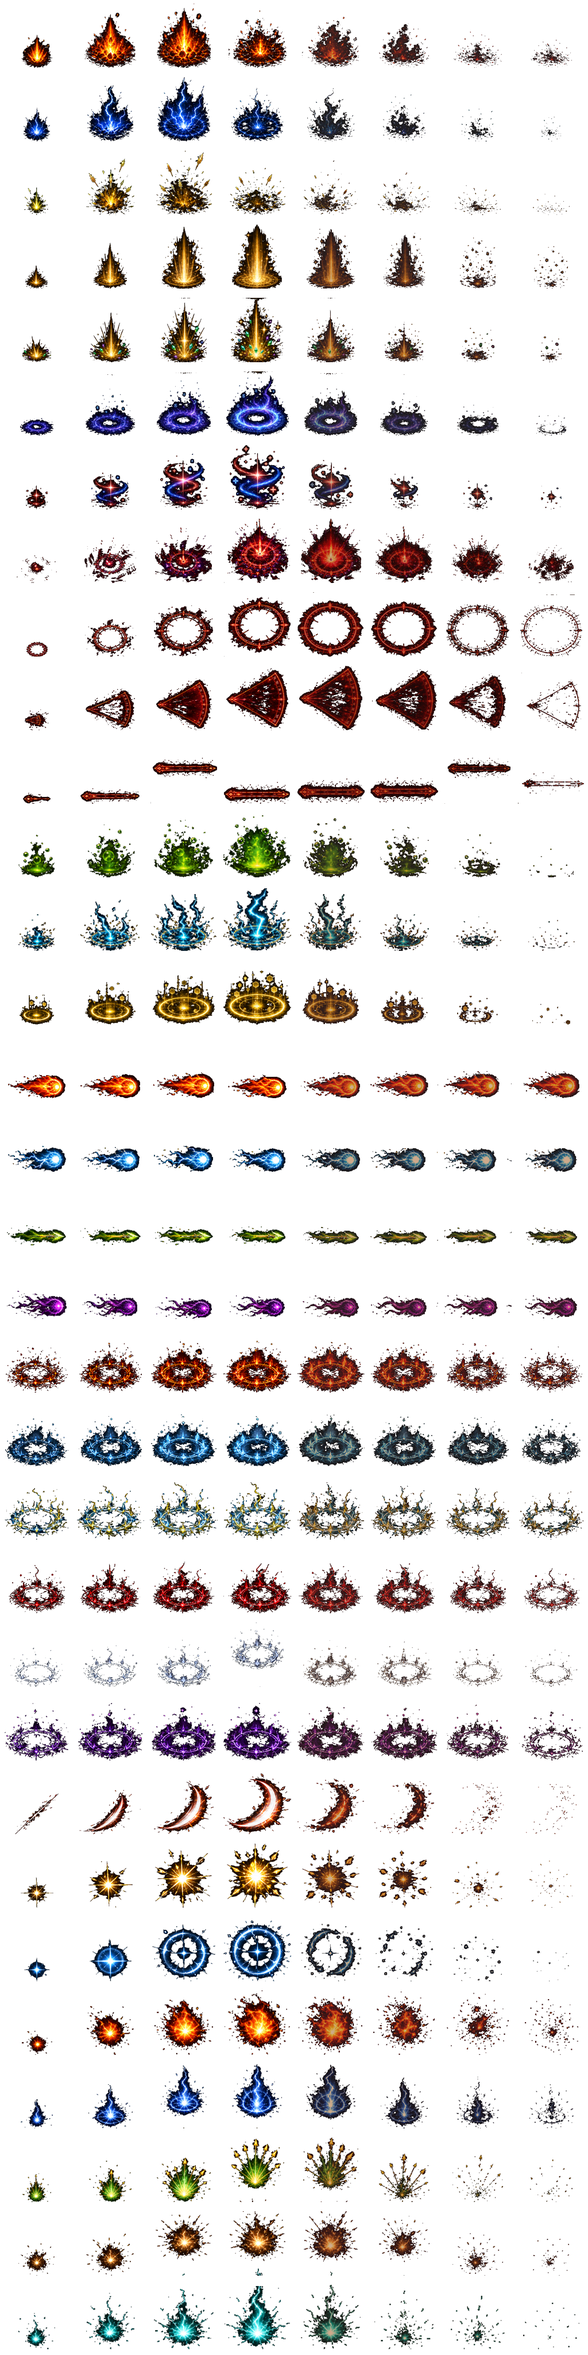
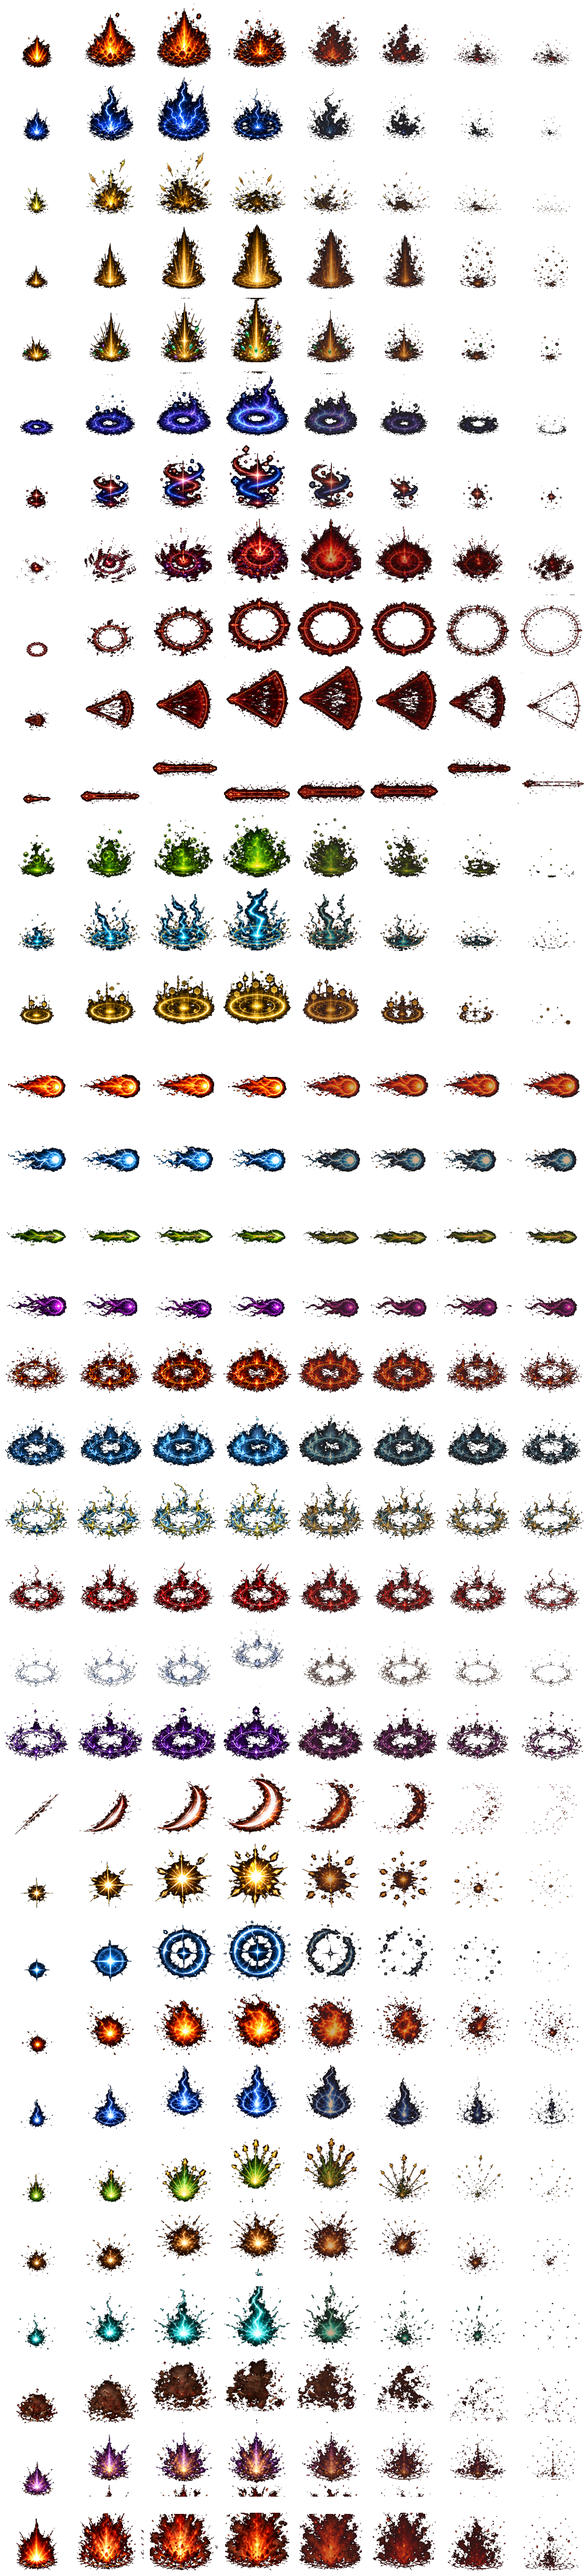
Add kill feedback VFX

diff --git a/vfx-manifest.js b/vfx-manifest.js
@@ -1,5 +1,5 @@
 window.VFX_SPRITE_MANIFEST = {
-    sheet: 'vfx_sheet.png?v=202605051915',
+    sheet: 'vfx_sheet.png?v=202605051925',
     effects: {
         fireballImpact: {
             row: 0,
@@ -351,6 +351,39 @@ window.VFX_SPRITE_MANIFEST = {
             renderSize: 54,
             pivotX: 64,
             pivotY: 76,
+            blend: 'lighter'
+        },
+        monsterDeathDust: {
+            row: 32,
+            frameWidth: 128,
+            frameHeight: 128,
+            frameCount: 8,
+            fps: 20,
+            renderSize: 70,
+            pivotX: 64,
+            pivotY: 92,
+            blend: 'lighter'
+        },
+        eliteDeathBurst: {
+            row: 33,
+            frameWidth: 128,
+            frameHeight: 128,
+            frameCount: 8,
+            fps: 22,
+            renderSize: 92,
+            pivotX: 64,
+            pivotY: 96,
+            blend: 'lighter'
+        },
+        bossDeathBurst: {
+            row: 34,
+            frameWidth: 128,
+            frameHeight: 128,
+            frameCount: 8,
+            fps: 20,
+            renderSize: 130,
+            pivotX: 64,
+            pivotY: 104,
             blend: 'lighter'
         }
     }

diff --git a/game.js b/game.js
@@ -1097,6 +1097,12 @@ const CAST_SOURCE_VFX = {
     enemyLightning: 'enemyLightningMuzzle'
 };
 
+const KILL_FEEDBACK_VFX = {
+    normal: 'monsterDeathDust',
+    elite: 'eliteDeathBurst',
+    boss: 'bossDeathBurst'
+};
+
 const ELITE_AFFIX_AURA_VFX = {
     fire_enchanted: 'affixFireAura',
     cold_enchanted: 'affixColdAura',
@@ -1266,6 +1272,12 @@ function spawnCastSourceVfx(effectId, x, y, angle = 0, scale = 1, forward = 14, 
         scale,
         angle
     );
+}
+
+function spawnEnemyDeathVfx(enemy) {
+    const effectId = enemy.isBoss ? KILL_FEEDBACK_VFX.boss : (enemy.isElite ? KILL_FEEDBACK_VFX.elite : KILL_FEEDBACK_VFX.normal);
+    const scale = enemy.isBoss ? 1.18 : (enemy.isElite ? 0.96 : 0.78);
+    spawnVfxEffect(effectId, enemy.x, enemy.y + 4, scale, Math.random() * Math.PI * 2);
 }
 
 function isAffixCompatibleWithEnemy(affix, enemy) {
@@ -9846,6 +9858,7 @@ function takeDamage(e, dmg, isSkillDamage = false) {
         // 怪物死亡 - 强烈的果汁感
         e.dead = true;
         Juice.hit(e, false, true); // 击杀反馈
+        spawnEnemyDeathVfx(e);
 
         // 创建地面血迹
         createBloodSplat(e.x, e.y, e.radius);

diff --git a/index.html b/index.html
@@ -765,8 +765,8 @@
     <script src="enemy-system.js?v=202605051730"></script>
     <script src="abyss-system.js?v=202601061400"></script>
     <script src="auto-battle.js?v=202601101200"></script>
-    <script src="vfx-manifest.js?v=202605051915"></script>
-    <script src="game.js?v=202605051915"></script>
+    <script src="vfx-manifest.js?v=202605051925"></script>
+    <script src="game.js?v=202605051925"></script>
     <script src="pocketbase.umd.js"></script>
     <script src="online.js?v=202605010330"></script>
     <script src="market.js?v=202605011345"></script>

diff --git a/sprite-vfx-viewer.html b/sprite-vfx-viewer.html
@@ -4,7 +4,7 @@
     <meta charset="utf-8">
     <meta name="viewport" content="width=device-width, initial-scale=1">
     <title>VFX 图集预览</title>
-    <script src="vfx-manifest.js?v=202605051915"></script>
+    <script src="vfx-manifest.js?v=202605051925"></script>
     <style>
         :root {
             color-scheme: dark;

diff --git a/docs/sprite-pipeline-adoption.md b/docs/sprite-pipeline-adoption.md
@@ -74,6 +74,10 @@ Boss 施法蓄力、圆形危险区、扇形危险区和直线危险区作为第
 
 飞行弹道和命中爆点完成后，发射源头不能继续只靠音效或少量粒子。玩家火球、雷电和多重射击在成功扣蓝并进入施法动作后播放对应起手 VFX；骷髅弓箭手、闪电幽魂和精英散射在真正创建 projectile 前播放小型发射闪光。接入点必须在成功分支里，不能在法力不足、冷却、无目标或超出射程时误播。
 
+## 第十条完整闭环：击杀反馈包
+
+击杀反馈接在统一的 `e.hp <= 0` 死亡分支里，只在怪物已经判定死亡后播放，不提前影响伤害、经验、掉落或成就。普通怪用低亮尘爆，精英怪用紫金爆点，Boss 用更大的红金爆点；原有慢动作、震屏、粒子、血迹和文字仍保留，位图 VFX 只负责补齐第一眼的击杀确认。
+
 ## 美术资产纪律
 
 火球命中爆炸 VFX 已从程序占位图替换为 AI 生成位图资产。后续新增正式 VFX 时，默认流程是：先生成或绘制高质量位图源图，再用 `tools/promote-ai-vfx-sheet.ps1` 晋升为游戏图集，最后通过 `tools/validate-sprite-assets.ps1` 和预览器验收。不要把程序生成图作为正式美术提交。

diff --git a/CHANGELOG.md b/CHANGELOG.md
@@ -18,6 +18,7 @@
 - 新增精英怪词缀脚底 Aura，按火焰、冰冷、闪电、威胁、防御和奥术六类归并显示，提高战斗中危险来源可读性。
 - 新增普攻斩击、暴击爆点和防御闪光 VFX，补齐近战命中、暴击和格挡/闪避/护盾吸收的战斗反馈。
 - 新增玩家三系施法起手和远程怪发射源头 VFX，让技能和敌方弹道从起手、飞行到命中的链路完整可读。
+- 新增普通怪、精英怪和 Boss 死亡位图 VFX，强化击杀确认感并保留原有掉落、经验和成就逻辑。
 
 ## v7.09 - 2026-05-01
 
